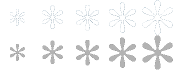
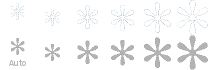
ajout de la commande auto

diff --git a/core/template/dashboard/cmd.action.slider.FanSpeed.html b/core/template/dashboard/cmd.action.slider.FanSpeed.html
@@ -4,7 +4,7 @@
     <style>
         div.fanSpeed#id# {
             margin-top: 0px;
-            width: 175px;
+            width: 210px;
             min-height: 35px;
         }
         .modeListe#id# {
@@ -22,55 +22,65 @@
             height: 35px;
             display: block;
         }
-        .modeListe#id# #vitesse1 {
+        .modeListe#id# #vitesse0 {
             left: 0px;
             width: 35px;
             background: url('plugins/melcloud/core/template/dashboard/cmd.action.other.FanSpeed/FanSpeed.png') 0 -35px;
         }
-        .modeListe#id# #vitesse1 .selected, .modeListe#id# #vitesse1 i:hover {
+        .modeListe#id# #vitesse0 .selected, .modeListe#id# #vitesse0 i:hover {
             left: 0px;
             width: 35px;
             background: url("plugins/melcloud/core/template/dashboard/cmd.action.other.FanSpeed/FanSpeed.png") 0 0;
         }
-        .modeListe#id# #vitesse2 {
+        .modeListe#id# #vitesse1 {
             left: 35px;
             width: 35px;
             background: url('plugins/melcloud/core/template/dashboard/cmd.action.other.FanSpeed/FanSpeed.png') -35px -35px;
         }
-        .modeListe#id# #vitesse2 .selected, .modeListe#id# #vitesse2 i:hover{
+        .modeListe#id# #vitesse1 .selected, .modeListe#id# #vitesse1 i:hover{
             left: 35px;
             width: 35px;
             background: url('plugins/melcloud/core/template/dashboard/cmd.action.other.FanSpeed/FanSpeed.png') -35px 0;
         }
-        .modeListe#id# #vitesse3 {
+        .modeListe#id# #vitesse2 {
             left: 70px;
             width: 35px;
             background: url('plugins/melcloud/core/template/dashboard/cmd.action.other.FanSpeed/FanSpeed.png') -70px -35px;
         }
-        .modeListe#id# #vitesse3 .selected, .modeListe#id# #vitesse3 i:hover{
+        .modeListe#id# #vitesse2 .selected, .modeListe#id# #vitesse2 i:hover{
             left: 70px;
             width: 35px;
             background: url('plugins/melcloud/core/template/dashboard/cmd.action.other.FanSpeed/FanSpeed.png') -70px 0;
         }
-        .modeListe#id# #vitesse4 {
+        .modeListe#id# #vitesse3 {
             left: 105px;
             width: 35px;
             background: url('plugins/melcloud/core/template/dashboard/cmd.action.other.FanSpeed/FanSpeed.png') -105px -35px;
         }
-        .modeListe#id# #vitesse4 .selected, .modeListe#id# #vitesse4 i:hover{
+        .modeListe#id# #vitesse3 .selected, .modeListe#id# #vitesse3 i:hover{
             left: 105px;
             width: 35px;
             background: url('plugins/melcloud/core/template/dashboard/cmd.action.other.FanSpeed/FanSpeed.png') -105px 0;
         }
-        .modeListe#id# #vitesse5 {
+        .modeListe#id# #vitesse4 {
             left: 140px;
             width: 35px;
             background: url('plugins/melcloud/core/template/dashboard/cmd.action.other.FanSpeed/FanSpeed.png') -140px -35px;
         }
-        .modeListe#id# #vitesse5 .selected, .modeListe#id# #vitesse5 i:hover{
+        .modeListe#id# #vitesse4 .selected, .modeListe#id# #vitesse4 i:hover{
             left: 140px;
             width: 35px;
             background: url('plugins/melcloud/core/template/dashboard/cmd.action.other.FanSpeed/FanSpeed.png') -140px 0;
+        }
+        .modeListe#id# #vitesse5 {
+            left: 175px;
+            width: 35px;
+            background: url('plugins/melcloud/core/template/dashboard/cmd.action.other.FanSpeed/FanSpeed.png') -175px -35px;
+        }
+        .modeListe#id# #vitesse5 .selected, .modeListe#id# #vitesse5 i:hover{
+            left: 175px;
+            width: 35px;
+            background: url('plugins/melcloud/core/template/dashboard/cmd.action.other.FanSpeed/FanSpeed.png') -175px 0;
         }
     </style>
 
@@ -78,6 +88,7 @@
     <p class='cmdName' style="font-weight: bold;font-size : 12px;">#name#</p>
     <span class="pull-left">
         <ul class="modeListe#id#">
+            <li id="vitesse0"><i></i></li>
             <li id="vitesse1"><i></i></li>
             <li id="vitesse2"><i></i></li>
             <li id="vitesse3"><i></i></li>
@@ -95,7 +106,7 @@
                 $('.cmd[data-cmd_id=#id#] .modeListe#id# #vitesse' + i#id#).hide();
             }
             $('.fanSpeed#id#').css("width", function() {
-                return 175-(35*(5-vitesseMax));
+                return 210-(35*(5-vitesseMax));
             });
         }
 

diff --git a/core/class/melcloud.class.php b/core/class/melcloud.class.php
@@ -276,7 +276,7 @@ class melcloud extends eqLogic
                             $cmd->save();
                             break;
                         case 'FanSpeed':
-                            log::add('melcloud', 'debug', 'log pour le FanSpeed ' . $cmd->getLogicalId() . ' ' . $device['Device'][$cmd->getLogicalId()]);
+                            log::add('melcloud', 'debug', 'log pour le FanSpeed ' . $cmd->getLogicalId() . ' ' . $device['Device']['NumberOfFanSpeeds']);
                             $cmd->setConfiguration('maxValue', $device['Device']['NumberOfFanSpeeds']);
                             //on break pas exprès pour le default!
                         default:
